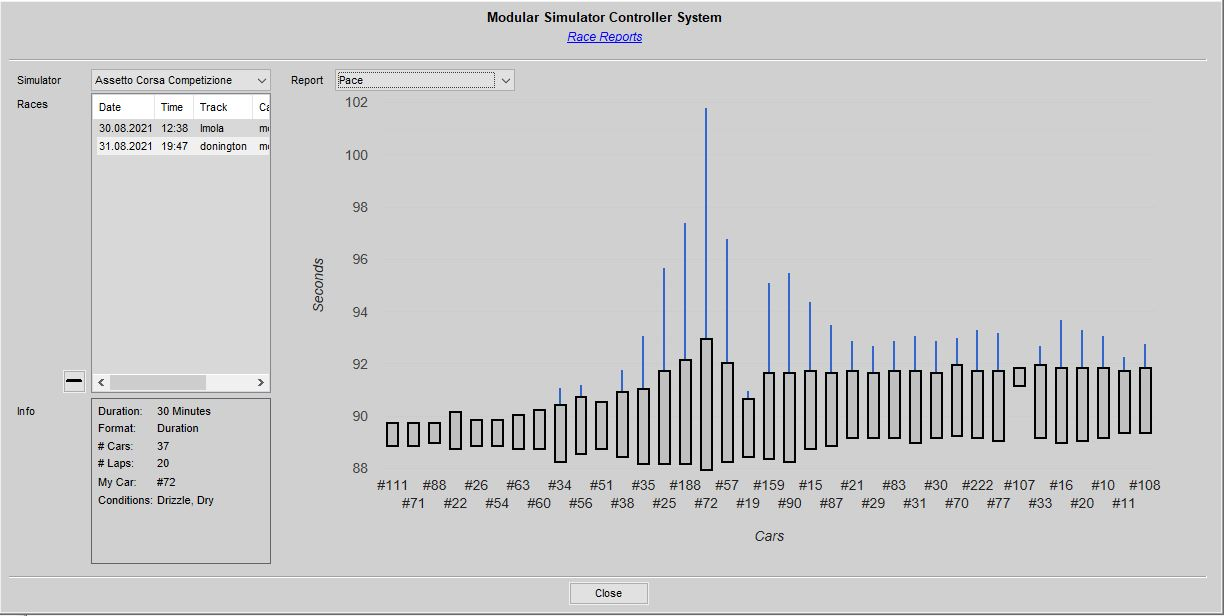
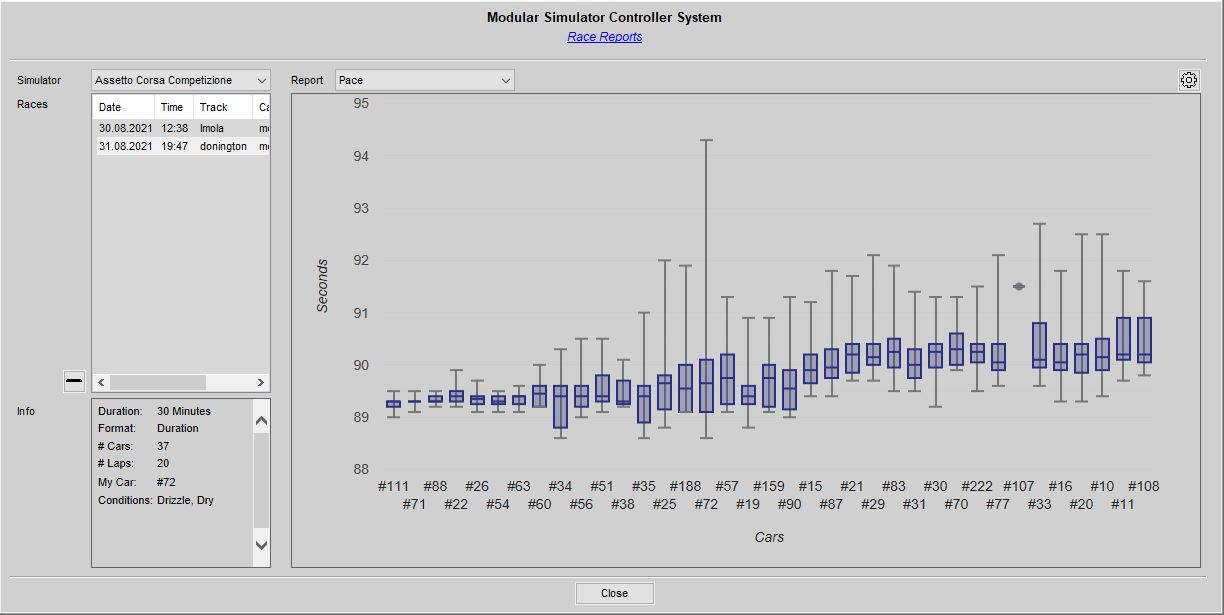
New "Pace" Report

diff --git a/README.md b/README.md
@@ -26,7 +26,7 @@ Simply donwload and run [Simulator Controller.exe](https://cntr.click/Qt9gVs0) (
 
 #### Latest development build
 
-[3.5.6-dev]() (Early build for Release 3.5.6. New features: New Reports in Race Reports tool, New "Call" command for Race Assistants, Better handling of multiple voice dialog partners when not using Push-to-Talk. Stable, with documentation and update procedure.)
+[3.5.6-dev]() (Early build for Release 3.5.6. New features: New Reports in Race Reports tool, Improved "Pace" report including median and quartile calculation, New "Call" command for Race Assistants, Better handling of multiple voice dialog partners when not using Push-to-Talk. Stable, with documentation and update procedure.)
 
 Please read the [Release Notes](https://github.com/SeriousOldMan/Simulator-Controller/wiki/Release-Notes) and - even more important - the release specific [Update Notes](https://github.com/SeriousOldMan/Simulator-Controller/wiki/Update-Notes#release-356) of this version and all the versions you might have skipped, before installing and using this version.
 
